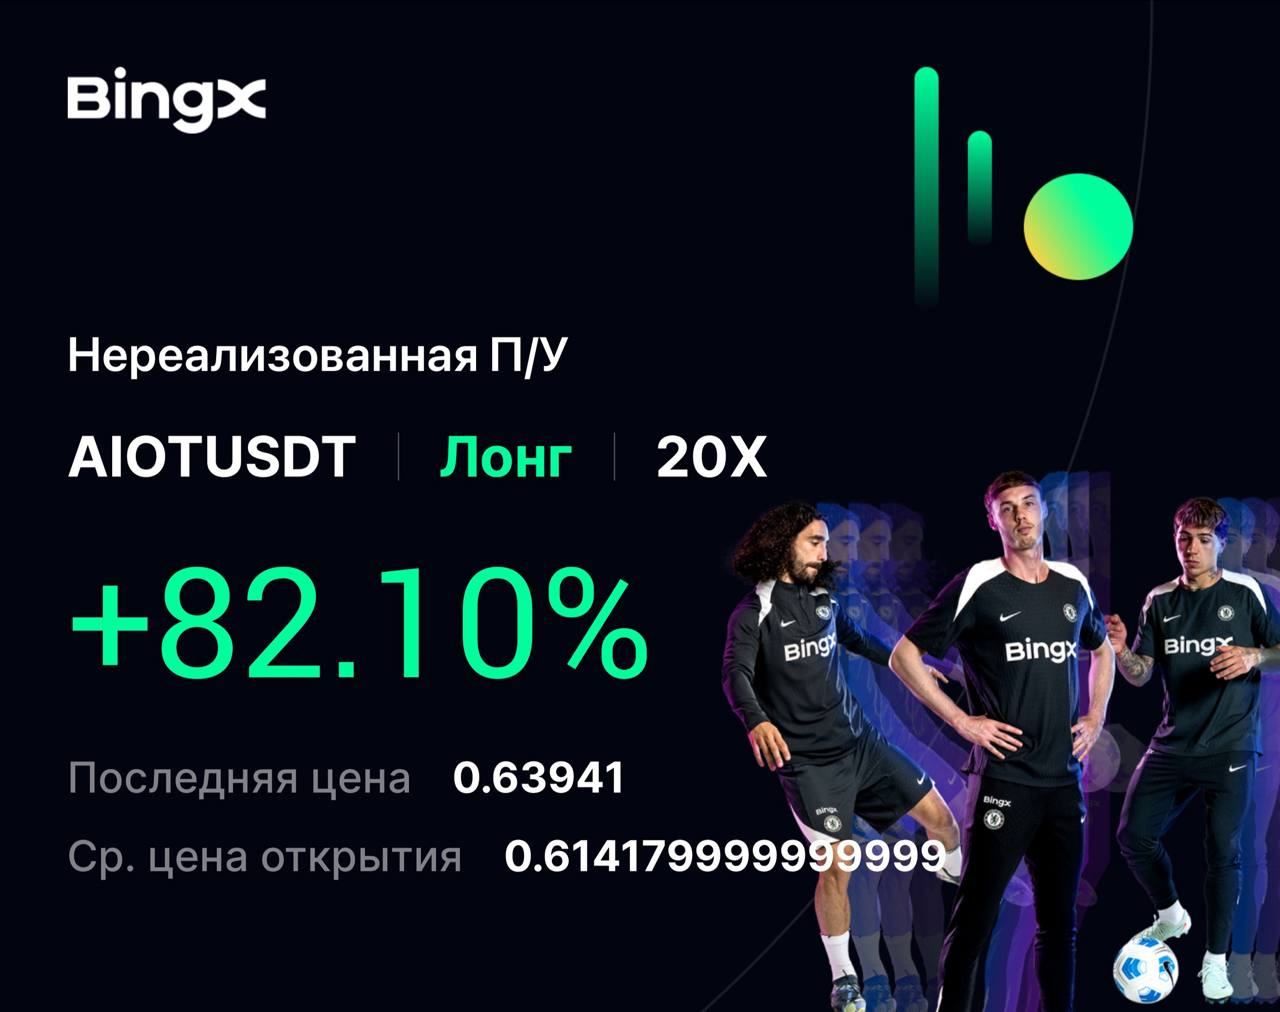
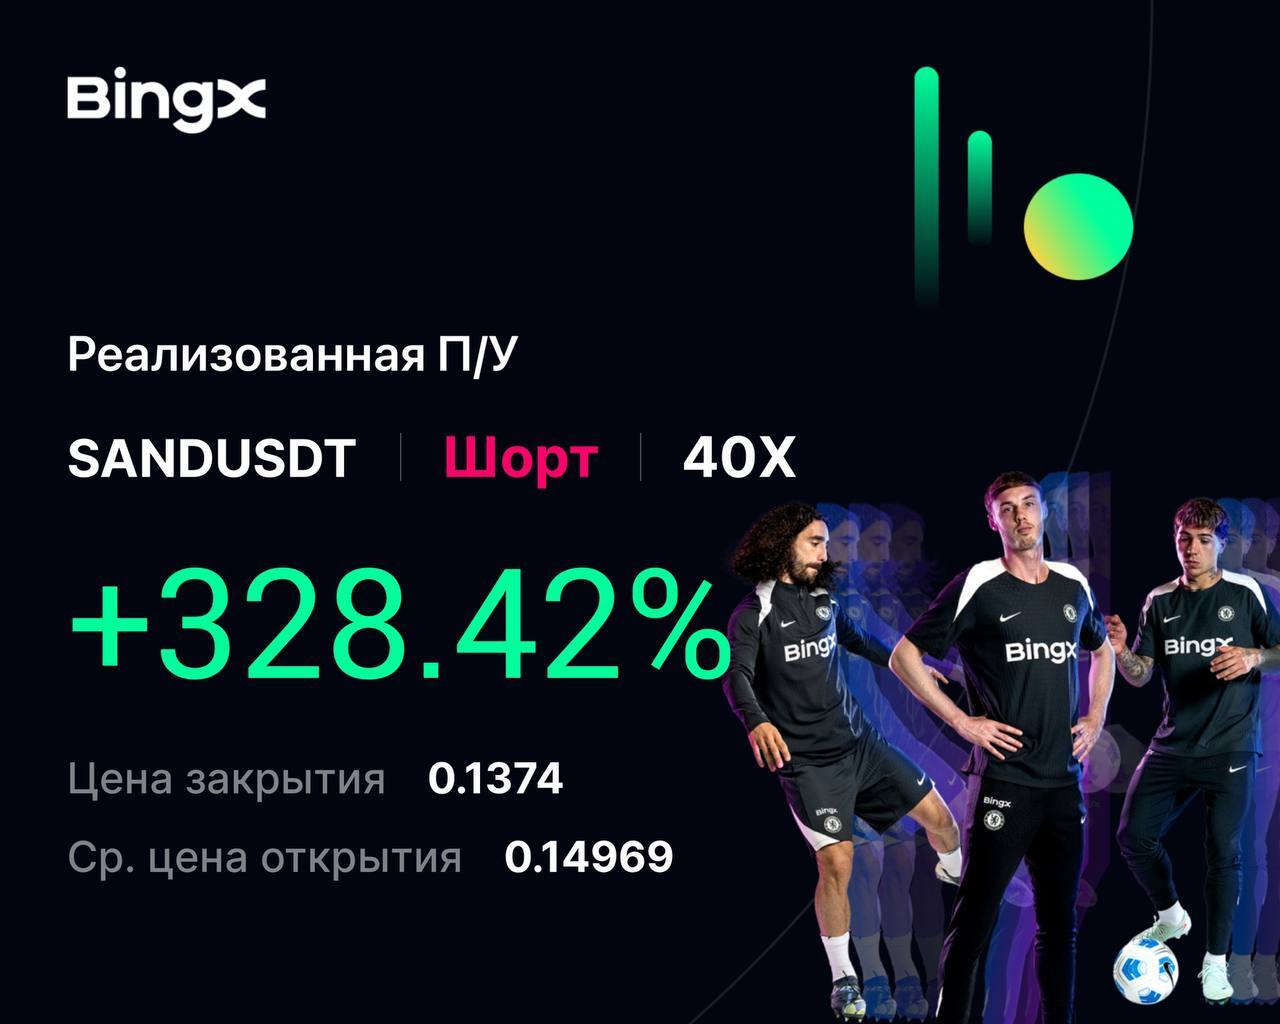
Добавил картинки в слайдер

diff --git a/components/main/profitability/profitability.vue b/components/main/profitability/profitability.vue
@@ -36,8 +36,12 @@ const modules = [Pagination]
 const baseSlides = [
   { id: 0, src: '/images/profitability/pro1.jpg', alt: 'Доходность сигнала 1' },
   { id: 1, src: '/images/profitability/pro2.jpg', alt: 'Доходность сигнала 2' },
-  { id: 2, src: '/images/profitability/pro1.jpg', alt: 'Доходность сигнала 3' },
-  { id: 3, src: '/images/profitability/pro3.jpg', alt: 'Доходность сигнала 4' },
+  { id: 2, src: '/images/profitability/pro3.jpg', alt: 'Доходность сигнала 3' },
+  { id: 3, src: '/images/profitability/pro4.jpg', alt: 'Доходность сигнала 4' },
+  { id: 4, src: '/images/profitability/pro5.jpg', alt: 'Доходность сигнала 5' },
+  { id: 5, src: '/images/profitability/pro6.jpg', alt: 'Доходность сигнала 6' },
+  { id: 6, src: '/images/profitability/pro7.jpg', alt: 'Доходность сигнала 7' },
+  { id: 7, src: '/images/profitability/pro8.jpg', alt: 'Доходность сигнала 8' },
 ]
 
 const slides = [
